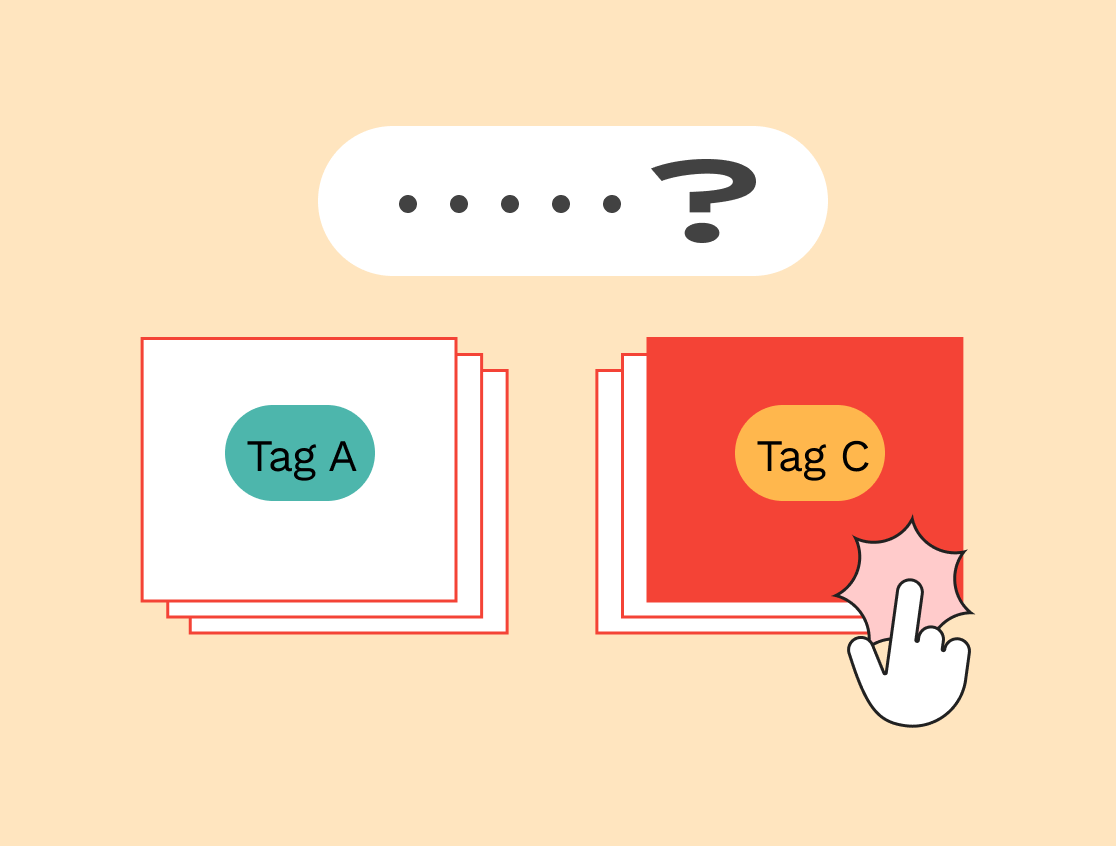
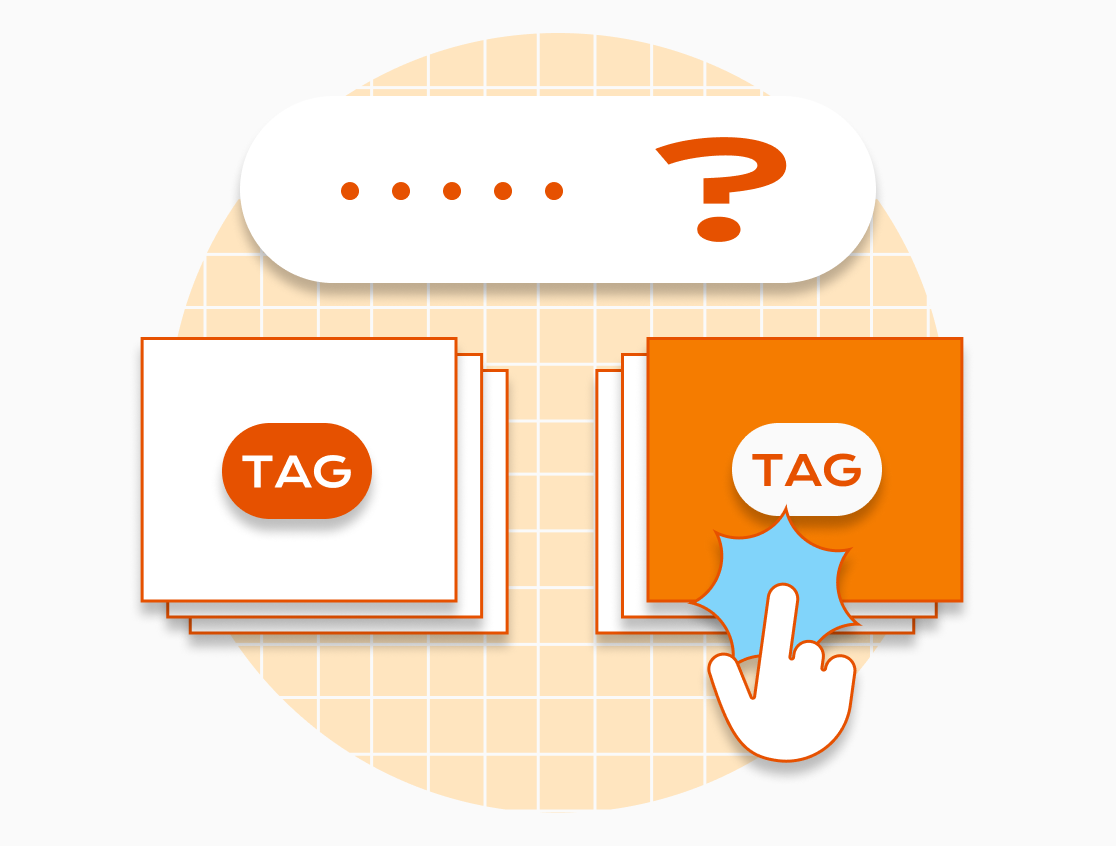
Img updates

diff --git a/src/components/Survey/CreateForm/OneInTwo.tsx b/src/components/Survey/CreateForm/OneInTwo.tsx
@@ -34,21 +34,33 @@ export default function OneInTwo() {
 
     return (
         <Box sx={{ p: 3, pb: 6 }}>
-            <Box sx={{ mb: 8 }}>
-                <Typography variant="h5" gutterBottom>
+            <Box
+                sx={{
+                    mb: 8,
+                    pb: 8,
+                    borderBottom: 1,
+                    borderColor: (theme) => theme.palette.grey[400],
+                }}
+            >
+                <Typography variant="h5" fontWeight="700" gutterBottom>
                     模組特色
                 </Typography>
                 <Typography variant="body1" sx={{ mb: 3 }}>
-                    範本特色說明
+                    本模組具三大特色，能協助你輕鬆設計遊戲化測驗
                 </Typography>
 
                 <Stack
                     direction="row"
                     justifyContent="space-evenly"
                     alignItems="center"
-                    spacing={2}
+                    spacing={4}
                 >
-                    <Box sx={{ textAlign: 'center', width: '100%' }}>
+                    <Box
+                        sx={{
+                            textAlign: 'center',
+                            maxWidth: 350,
+                        }}
+                    >
                         <ImageBox
                             imageUrl="images/one-in-two/survey-1-1.png"
                             sx={{ mb: 2, borderRadius: 8, overflow: 'hidden' }}
@@ -57,7 +69,7 @@ export default function OneInTwo() {
                             可以根據溝通需求，透過測驗了解受眾的偏好或狀態，進而更精準的分眾
                         </Typography>
                     </Box>
-                    <Box sx={{ textAlign: 'center', width: '100%' }}>
+                    <Box sx={{ textAlign: 'center', maxWidth: 350 }}>
                         <ImageBox
                             imageUrl="images/one-in-two/survey-1-2.png"
                             sx={{ mb: 2, borderRadius: 8, overflow: 'hidden' }}
@@ -66,7 +78,7 @@ export default function OneInTwo() {
                             透過快速二選一的固定題型，降低題目設計門檻，節省工作時間
                         </Typography>
                     </Box>
-                    <Box sx={{ textAlign: 'center', width: '100%' }}>
+                    <Box sx={{ textAlign: 'center', maxWidth: 350 }}>
                         <ImageBox
                             imageUrl="images/one-in-two/survey-1-3.png"
                             sx={{ mb: 2, borderRadius: 8, overflow: 'hidden' }}
@@ -78,18 +90,18 @@ export default function OneInTwo() {
                 </Stack>
             </Box>
 
-            <Grid container spacing={4}>
+            <Grid container spacing={8}>
                 <Grid
                     item
                     sx={{
-                        width: 288,
+                        width: 320,
                         position: 'sticky',
                         height: 'fit-content',
                         top: 0,
                     }}
                 >
-                    <Typography variant="h6" sx={{ mb: 3 }}>
-                        來看看二選一在做什麼
+                    <Typography variant="h5" fontWeight="700" sx={{ mb: 3 }}>
+                        模組如何運作
                     </Typography>
                     <Tabs
                         orientation="vertical"
@@ -174,7 +186,11 @@ export default function OneInTwo() {
                 <Grid item xs sx={{ width: `calc(100vw - 288px)` }}>
                     <Element name={BlockName.a}>
                         <Box sx={{ mb: 5 }}>
-                            <Typography variant="h6" gutterBottom>
+                            <Typography
+                                variant="h6"
+                                fontWeight="700"
+                                gutterBottom
+                            >
                                 參與測驗
                             </Typography>
                             <Typography variant="body2" sx={{ mb: 2 }}>
@@ -262,7 +278,11 @@ export default function OneInTwo() {
                                 spacing={2}
                             >
                                 <Box sx={{ flex: '0 0 33%' }}>
-                                    <Typography variant="h6" gutterBottom>
+                                    <Typography
+                                        variant="h6"
+                                        fontWeight="700"
+                                        gutterBottom
+                                    >
                                         測驗模組產生個人化結果
                                     </Typography>
                                     <Typography variant="body2">
@@ -291,7 +311,11 @@ export default function OneInTwo() {
                                 spacing={2}
                             >
                                 <Box sx={{ flex: '0 0 33%' }}>
-                                    <Typography variant="h6" gutterBottom>
+                                    <Typography
+                                        variant="h6"
+                                        fontWeight="700"
+                                        gutterBottom
+                                    >
                                         個人化結果預覽
                                     </Typography>
                                     <Typography variant="body2">
@@ -311,7 +335,11 @@ export default function OneInTwo() {
                     </Element>
                     <Element name={BlockName.d}>
                         <Box sx={{ mb: 5 }}>
-                            <Typography variant="h6" gutterBottom>
+                            <Typography
+                                variant="h6"
+                                fontWeight="700"
+                                gutterBottom
+                            >
                                 查看分析
                             </Typography>
                             <Typography variant="body2" sx={{ mb: 2 }}>

diff --git a/src/components/Survey/CreateForm/Dragger.tsx b/src/components/Survey/CreateForm/Dragger.tsx
@@ -34,12 +34,19 @@ export default function Dragger() {
 
     return (
         <Box sx={{ p: 3, pb: 6 }}>
-            <Box sx={{ mb: 8 }}>
-                <Typography variant="h5" gutterBottom>
+            <Box
+                sx={{
+                    mb: 8,
+                    pb: 8,
+                    borderBottom: 1,
+                    borderColor: (theme) => theme.palette.grey[400],
+                }}
+            >
+                <Typography variant="h5" fontWeight="700" gutterBottom>
                     模組特色
                 </Typography>
                 <Typography variant="body1" sx={{ mb: 3 }}>
-                    範本特色說明
+                    本模組具三大特色，能協助你輕鬆設計遊戲化測驗
                 </Typography>
 
                 <Stack
@@ -48,7 +55,12 @@ export default function Dragger() {
                     alignItems="center"
                     spacing={2}
                 >
-                    <Box sx={{ textAlign: 'center', width: '100%' }}>
+                    <Box
+                        sx={{
+                            textAlign: 'center',
+                            maxWidth: 350,
+                        }}
+                    >
                         <ImageBox
                             imageUrl="images/dragger/survey-1-1.png"
                             sx={{ mb: 2, borderRadius: 8, overflow: 'hidden' }}
@@ -59,7 +71,7 @@ export default function Dragger() {
                             測驗主題可以很知識性，也能純粹好玩
                         </Typography>
                     </Box>
-                    <Box sx={{ textAlign: 'center', width: '100%' }}>
+                    <Box sx={{ textAlign: 'center', maxWidth: 350 }}>
                         <ImageBox
                             imageUrl="images/dragger/survey-1-2.png"
                             sx={{ mb: 2, borderRadius: 8, overflow: 'hidden' }}
@@ -68,7 +80,7 @@ export default function Dragger() {
                             透過隨機出題的固定題型，降低題目設計門檻，節省工作時間
                         </Typography>
                     </Box>
-                    <Box sx={{ textAlign: 'center', width: '100%' }}>
+                    <Box sx={{ textAlign: 'center', maxWidth: 350 }}>
                         <ImageBox
                             imageUrl="images/dragger/survey-1-3.png"
                             sx={{ mb: 2, borderRadius: 8, overflow: 'hidden' }}
@@ -80,18 +92,18 @@ export default function Dragger() {
                 </Stack>
             </Box>
 
-            <Grid container spacing={4}>
+            <Grid container spacing={8}>
                 <Grid
                     item
                     sx={{
-                        width: 288,
+                        width: 320,
                         position: 'sticky',
                         height: 'fit-content',
                         top: 0,
                     }}
                 >
-                    <Typography variant="h6" sx={{ mb: 3 }}>
-                        來看看左右拖曳在做什麼
+                    <Typography variant="h5" fontWeight="700" sx={{ mb: 3 }}>
+                        模組如何運作
                     </Typography>
                     <Tabs
                         orientation="vertical"
@@ -176,7 +188,11 @@ export default function Dragger() {
                 <Grid item xs sx={{ width: `calc(100vw - 288px)` }}>
                     <Element name={BlockName.a}>
                         <Box sx={{ mb: 5 }}>
-                            <Typography variant="h6" gutterBottom>
+                            <Typography
+                                variant="h6"
+                                fontWeight="700"
+                                gutterBottom
+                            >
                                 參與測驗
                             </Typography>
                             <Typography variant="body2" sx={{ mb: 2 }}>
@@ -264,7 +280,11 @@ export default function Dragger() {
                                 spacing={2}
                             >
                                 <Box sx={{ flex: '0 0 33%' }}>
-                                    <Typography variant="h6" gutterBottom>
+                                    <Typography
+                                        variant="h6"
+                                        fontWeight="700"
+                                        gutterBottom
+                                    >
                                         測驗模組產生個人化結果
                                     </Typography>
                                     <Typography variant="body2">
@@ -293,7 +313,11 @@ export default function Dragger() {
                                 spacing={2}
                             >
                                 <Box sx={{ flex: '0 0 33%' }}>
-                                    <Typography variant="h6" gutterBottom>
+                                    <Typography
+                                        variant="h6"
+                                        fontWeight="700"
+                                        gutterBottom
+                                    >
                                         個人化結果預覽
                                     </Typography>
                                     <Typography variant="body2">
@@ -313,7 +337,11 @@ export default function Dragger() {
                     </Element>
                     <Element name={BlockName.d}>
                         <Box sx={{ mb: 5 }}>
-                            <Typography variant="h6" gutterBottom>
+                            <Typography
+                                variant="h6"
+                                fontWeight="700"
+                                gutterBottom
+                            >
                                 查看分析
                             </Typography>
                             <Typography variant="body2" sx={{ mb: 2 }}>

diff --git a/src/components/Survey/StartForm/index.tsx b/src/components/Survey/StartForm/index.tsx
@@ -1,13 +1,21 @@
 import * as React from 'react'
 import _ from 'lodash'
+import { styled } from '@mui/material/styles'
+import AppBar from '@mui/material/AppBar'
+import Toolbar from '@mui/material/Toolbar'
 import Box from '@mui/material/Box'
 import Stack from '@mui/material/Stack'
 import Typography from '@mui/material/Typography'
 import Button from '@mui/material/Button'
 import ImageBox from 'components/common/ImageBox'
+import ThemeProvider from 'theme/ThemeProvider'
 import { useAppDispatch } from 'hooks'
 import { setMode, setStep } from 'store/slices/survey'
 import { Mode, SurveyStep } from 'common/types'
+
+const Grow = styled('div')({
+    flexGrow: 1,
+})
 
 export default function StartForm() {
     const dispatch = useAppDispatch()
@@ -29,9 +37,22 @@ export default function StartForm() {
                 bgcolor: 'white',
             }}
         >
-            <Box sx={{ textAlign: 'center', py: 6 }}>
-                <Typography variant="h4" fontWeight="bold" gutterBottom>
-                    用好玩的測驗提升品牌知名度＆好感度！
+            <ThemeProvider mode="dark">
+                <AppBar position="static">
+                    <Toolbar>
+                        <Typography variant="h6" component="div">
+                            超市調
+                        </Typography>
+                        <Grow />
+                        <Button color="inherit">Login</Button>
+                    </Toolbar>
+                </AppBar>
+            </ThemeProvider>
+            <Box sx={{ textAlign: 'center', py: 5 }}>
+                <Typography variant="h3" fontWeight="bold" gutterBottom>
+                    用好玩的測驗
+                    <br />
+                    提升品牌知名度＆好感度！
                 </Typography>
                 <Typography variant="body1">
                     透過測驗模組讓測驗製作更簡單、省時
@@ -39,11 +60,11 @@ export default function StartForm() {
             </Box>
             <Stack
                 direction="row"
-                alignItems="center"
                 justifyContent="center"
+                alignItems="flex-start"
                 sx={{
-                    height: 'calc(100vh - 172px)',
                     bgcolor: (theme) => theme.palette.grey[50],
+                    py: 6,
                 }}
             >
                 <Box
@@ -54,7 +75,7 @@ export default function StartForm() {
                     }}
                 >
                     <ImageBox
-                        imageUrl="images/one-in-two/cover.svg"
+                        imageUrl="images/one-in-two/cover.png"
                         objectFit="contain"
                         sx={{ height: 300, mb: 4 }}
                     />
@@ -90,7 +111,7 @@ export default function StartForm() {
                     }}
                 >
                     <ImageBox
-                        imageUrl="images/dragger/cover.svg"
+                        imageUrl="images/dragger/cover.png"
                         objectFit="contain"
                         sx={{ height: 300, mb: 4 }}
                     />

diff --git a/src/components/Survey/CreateForm/index.tsx b/src/components/Survey/CreateForm/index.tsx
@@ -1,5 +1,6 @@
 import * as React from 'react'
 import _ from 'lodash'
+import { styled } from '@mui/material/styles'
 import Stack from '@mui/material/Stack'
 import Box from '@mui/material/Box'
 import Typography from '@mui/material/Typography'
@@ -18,6 +19,9 @@ const OneInTwo = React.lazy(
 )
 const Dragger = React.lazy(() => import('components/Survey/CreateForm/Dragger'))
 
+const Grow = styled('div')({
+    flexGrow: 1,
+})
 export default function CreateForm() {
     const dispatch = useAppDispatch()
 
@@ -86,7 +90,7 @@ export default function CreateForm() {
                     alignItems="center"
                     sx={{
                         position: 'relative',
-                        height: 'calc(100vh - 240px)',
+                        height: 500,
                         p: 3,
                     }}
                     spacing={4}
@@ -139,12 +143,15 @@ export default function CreateForm() {
                             </Stack>
                         </Stack>
                     </Box>
-                    <Box sx={{ p: 3 }}>
+
+                    <Grow />
+                    <Box sx={{ p: 6, maxWidth: 700 }}>
                         <ImageBox
+                            justifySelf="end"
                             imageUrl={
                                 isOneInTwo
-                                    ? 'images/one-in-two/cover.svg'
-                                    : 'images/dragger/cover.svg'
+                                    ? 'images/one-in-two/cover-lg.png'
+                                    : 'images/dragger/cover-lg.png'
                             }
                             objectFit="contain"
                         />
